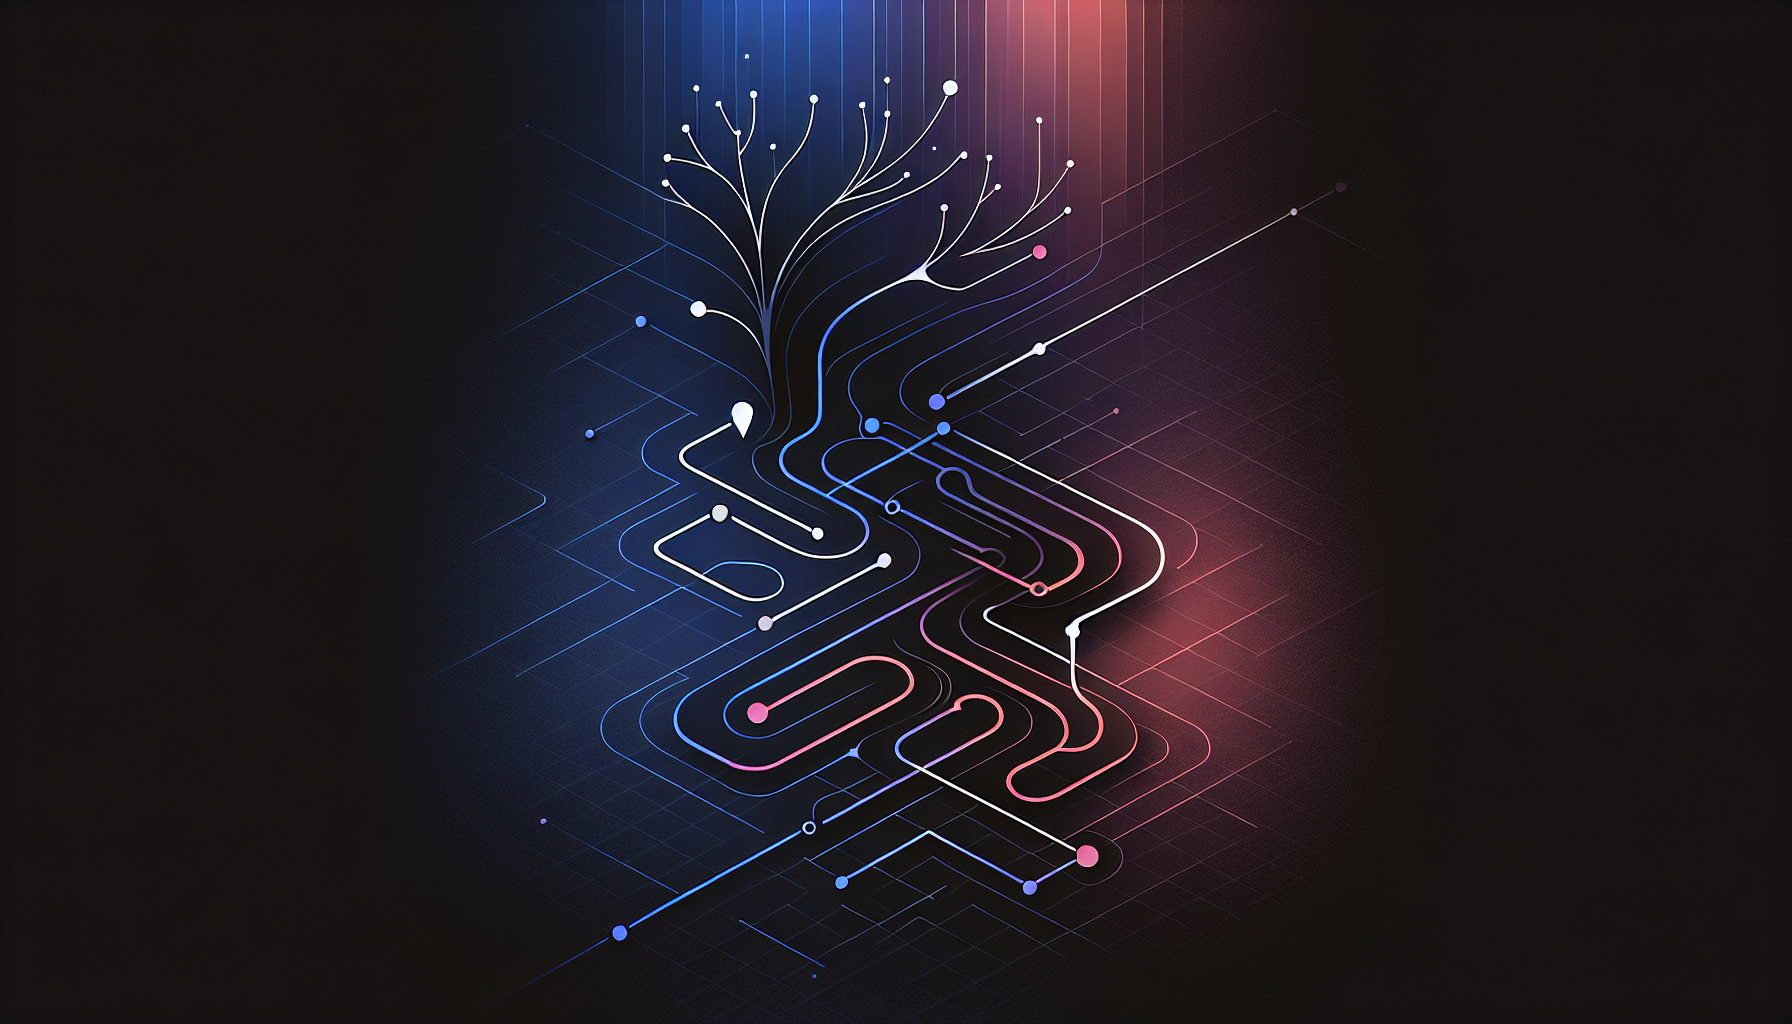
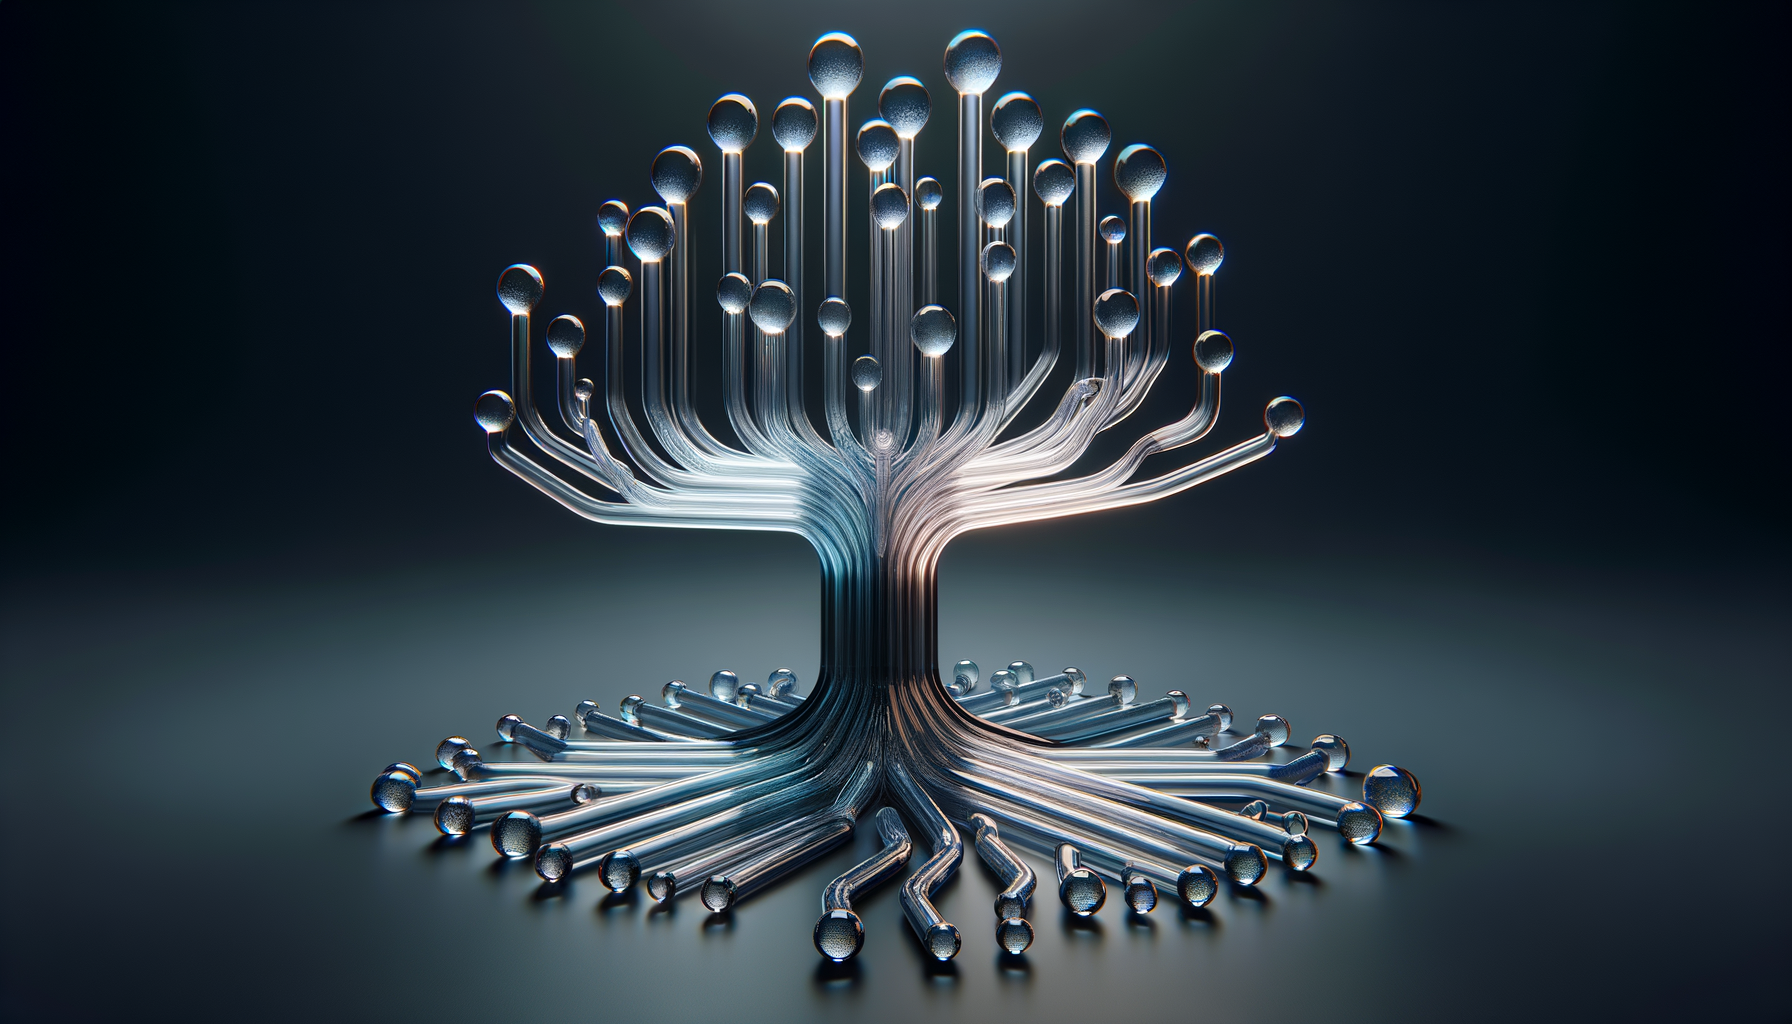
Regenerate images with glassmorphism style, add inline images
- Cover + 2 inline images per article (DALL-E 3 HD quality)
- Style: liquid glass 3D renders on dark background, purple/cyan light
- Updated bot DALL-E prompts to use same glassmorphism style
- Inline images placed at key sections in both articles

diff --git a/bot/index.js b/bot/index.js
@@ -131,7 +131,7 @@ async function generateImages(slug, content, title, description) {
 
   // ── Cover image ──
   console.log(`🎨 Generating cover image for "${title}"...`);
-  const coverPrompt = `Blog cover image for an article titled "${title}". ${description}. Modern, minimal, dark background with subtle gradients. Abstract tech illustration. No text in the image.`;
+  const coverPrompt = `${description}. Hyper-minimal 3D render on a solid dark charcoal (#0a0a0a) background. Glassy, translucent objects with liquid glass / glassmorphism aesthetic. Soft refraction, subtle purple-to-cyan gradient light hitting the glass. No text, no UI elements, no people. Clean, editorial, premium feel like Linear.app or Stripe illustrations. Shallow depth of field.`;
   const coverBuffer = await generateImage(coverPrompt, "1792x1024");
 
   if (coverBuffer) {
@@ -154,7 +154,7 @@ async function generateImages(slug, content, title, description) {
     const filename = `image-${imageIndex}.png`;
 
     console.log(`🎨 Generating inline image ${imageIndex}: "${imageDesc}"...`);
-    const inlinePrompt = `${imageDesc}. Clean illustration style, minimal, dark background with subtle gradients. No text in the image.`;
+    const inlinePrompt = `${imageDesc}. Hyper-minimal 3D render on a solid dark charcoal (#0a0a0a) background. Glassy, translucent objects with liquid glass / glassmorphism aesthetic. Soft refraction, subtle purple-to-cyan gradient light. No text, no UI elements, no people. Clean, editorial, premium feel. Shallow depth of field.`;
     const imageBuffer = await generateImage(inlinePrompt);
 
     if (imageBuffer) {
